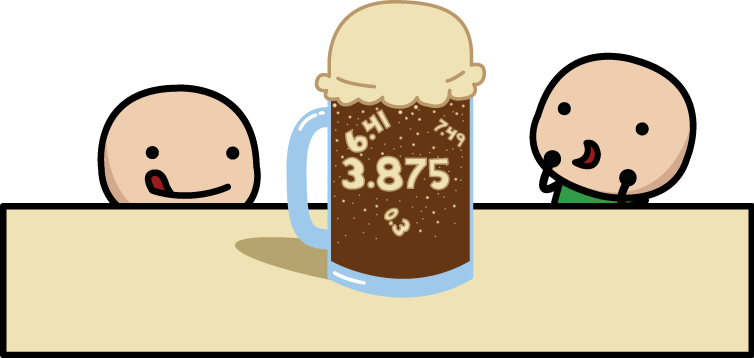
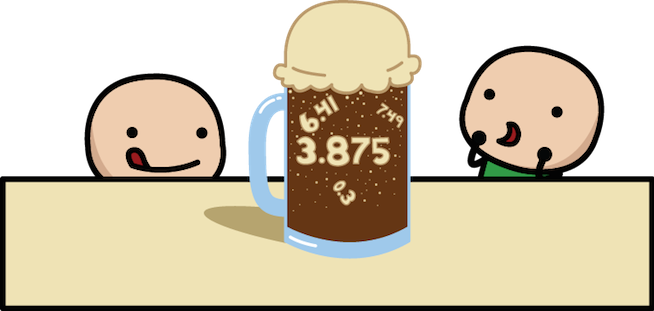
Remove img resize styling. Add 2 images. Minor copy changes to Strings ch

diff --git a/_layouts/default.html b/_layouts/default.html
@@ -28,7 +28,7 @@
           <div class="site">
             <div class="header">
               <h1 class="title"><a href="/">{{ site.name }}</a></h1>
-              <div class="pull-right"><img src="/images/ruby-logo.png"></div>
+              <div class="pull-right"><img src="/images/kids-ruby-logo.png"></div>
             </div>
             <div>
               <h2>{{ page.title }}</h2>

diff --git a/css/main.css b/css/main.css
@@ -67,10 +67,6 @@ ul.posts span {
   margin: 0 auto;
 }
 
-.site .reg img {
-  width: 80%;
-}
-
 .site .lrg img {
   width: 100%;
 }

diff --git a/strings.md b/strings.md
@@ -32,18 +32,28 @@ In fact, you can write either of these lines of code and the result will be the 
 
 In the example above, there are two strings, one is `"Cat and "` and the second string is `"Dog"`. By giving the command to add the two strings `+`, we are able to join both strings together using the magic of concatenation. (Concatenation is just a fancy old Latin word for join together).
 
+<div class="inline-img">
+  <img src="/images/cat-dog.png" alt="Art by Vixuong Hong"/>
+</div>
+<div class="credit">
+  Art by
+  <a href="mailto:vthong1990@gmail.com">Vixuong Hong</a>
+</div>
+
 Ready to try it out?
 
 Open Terminal again (or <a href="http://repl.it/languages/Ruby" target="_blank">Repl.it</a>) and try multiplying and adding a few strings yourself to get the hang of it.
 
-Now try adding a number with a string. It didn’t work did it? Remember that joker `"9"` string from our previous example in [chapter 1](/what-is-programming.html)? Ruby doesn’t see this as the actual number 9. Instead it sees a string because, to Ruby, anything that is inside the quote isn’t just a word or a number anymore, everything inside the quotes is a string. That's why when we try to add a string with a number, Ruby gives us an error:
+Now try adding a number with a string. It didn’t work did it? Remember that joker `"9"` string from our previous example in [chapter 1](/what-is-programming.html)? Ruby doesn’t see this as the actual number 9, instead it sees a string.
+
+To Ruby, anything that is inside the quote isn’t just a word or a number anymore. Everything inside the quotes is a string. So when we try to add a string with a number, Ruby gives us an error:
 
 ```
 "9" + 9
 => TypeError: can't convert Fixnum into String
 ```
 
-In the above example, we would see `"9" + 9` and think the answer is 18. But for Ruby, she doesn’t see it like that, for Ruby she sees `"STRING" + NUMBER`. And you can't add strings and numbers, because they are different types of data.
+In the above example, we would see `"9" + 9` and think the answer is 18. But Ruby doesn’t see it like that. Ruby sees `"STRING" + NUMBER`. And you can't add strings and numbers, because they are different _types_ of data.
 
 This doesn’t mean we can’t do this sort of equation, it just means we need to use a trick to make sure Ruby understands what we want. Of course, there are lots of interesting methods or _actions_ we can perform to get Ruby to do what we want.
 

diff --git a/if-and-else.md b/if-and-else.md
@@ -13,7 +13,17 @@ So far, we’ve learned how Ruby can perform basic math on numbers, store words 
 
 One way we do that is with conditionals. This is why your parents say they love you unconditionally, because there is no _if_ or _else_, there is only 100% love, no matter what. Ruby doesn’t love anything unconditionally, Ruby needs to be convinced by conditions.
 
-A conditional is something that depends on other factors. If this _something_ happens, do _that_, otherwise, do something _else_. For example, if you are hungry, eat a sandwich, else, don’t eat a sandwich! Here’s how an If Else conditional might look in Ruby.
+A conditional is something that depends on other factors. If this _something_ happens, do _that_, otherwise, do something _else_. For example, if you are hungry, eat a sandwich, else, don’t eat a sandwich!
+
+<div class="inline-img">
+  <img src="/images/eat-sandwich.png" alt="Art by Vixuong Hong"/>
+</div>
+<div class="credit">
+  Art by
+  <a href="mailto:vthong1990@gmail.com">Vixuong Hong</a>
+</div>
+
+Here’s how an If Else conditional might look in Ruby.
 
 ```ruby
 # set an x variable to the value 5

diff --git a/what-is-programming.md b/what-is-programming.md
@@ -19,7 +19,7 @@ This book will help you learn the basics of programming, using the Ruby language
 
 Each chapter will go into more detail with basics at the beginning and more complicated material at the end. For now, let’s get started with some simple ideas.
 
-<div class="inline-img reg">
+<div class="inline-img">
   <img src="/images/rootbeer_float.png" alt="Art by Vixuong Hong"/>
 </div>
 <div class="credit">
@@ -54,7 +54,7 @@ The second type of data, or information given to a computer, are called _strings
 
 For example, have you ever seen an alert message on your computer saying something like this:
 
-<div class="inline-img reg">
+<div class="inline-img">
   <img src="/images/alert_message.png" alt="Alert message with string example"/>
 </div>
 
